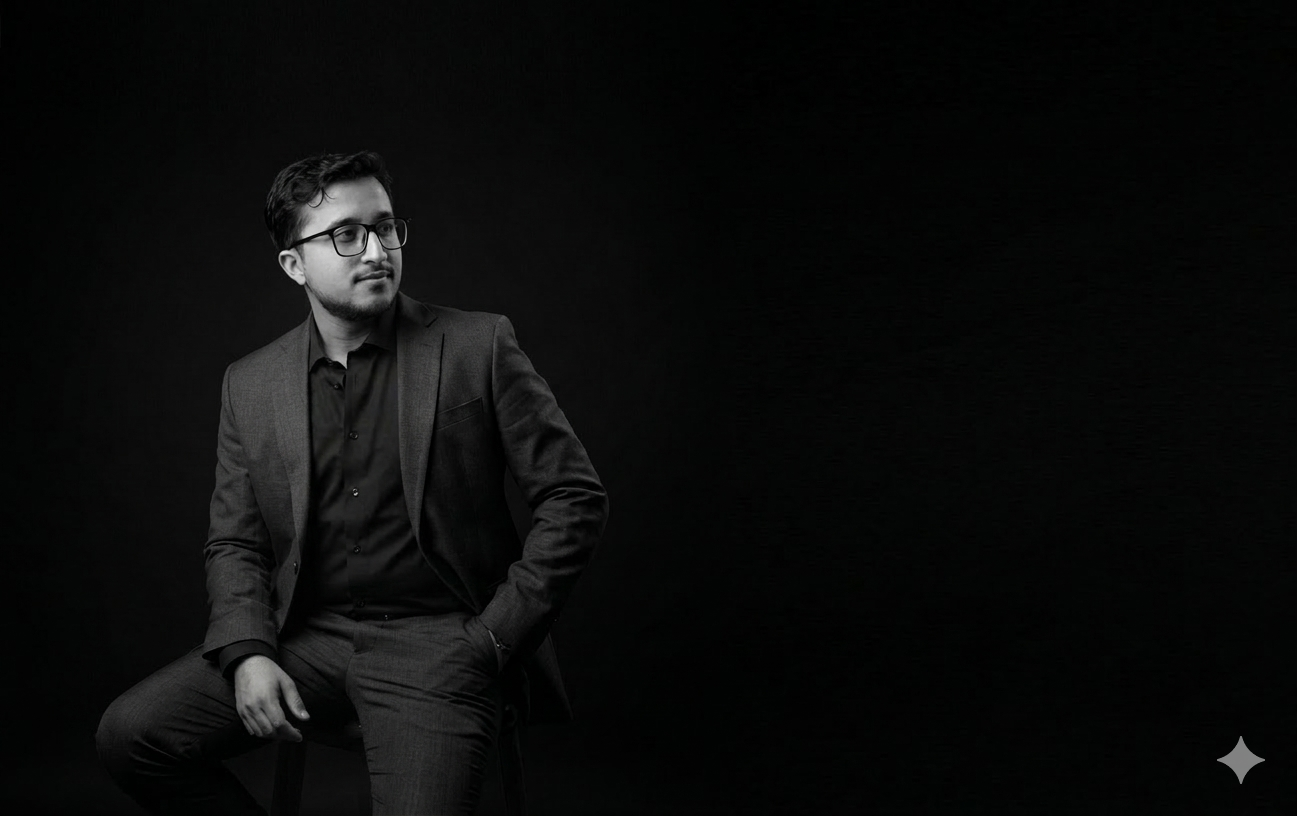
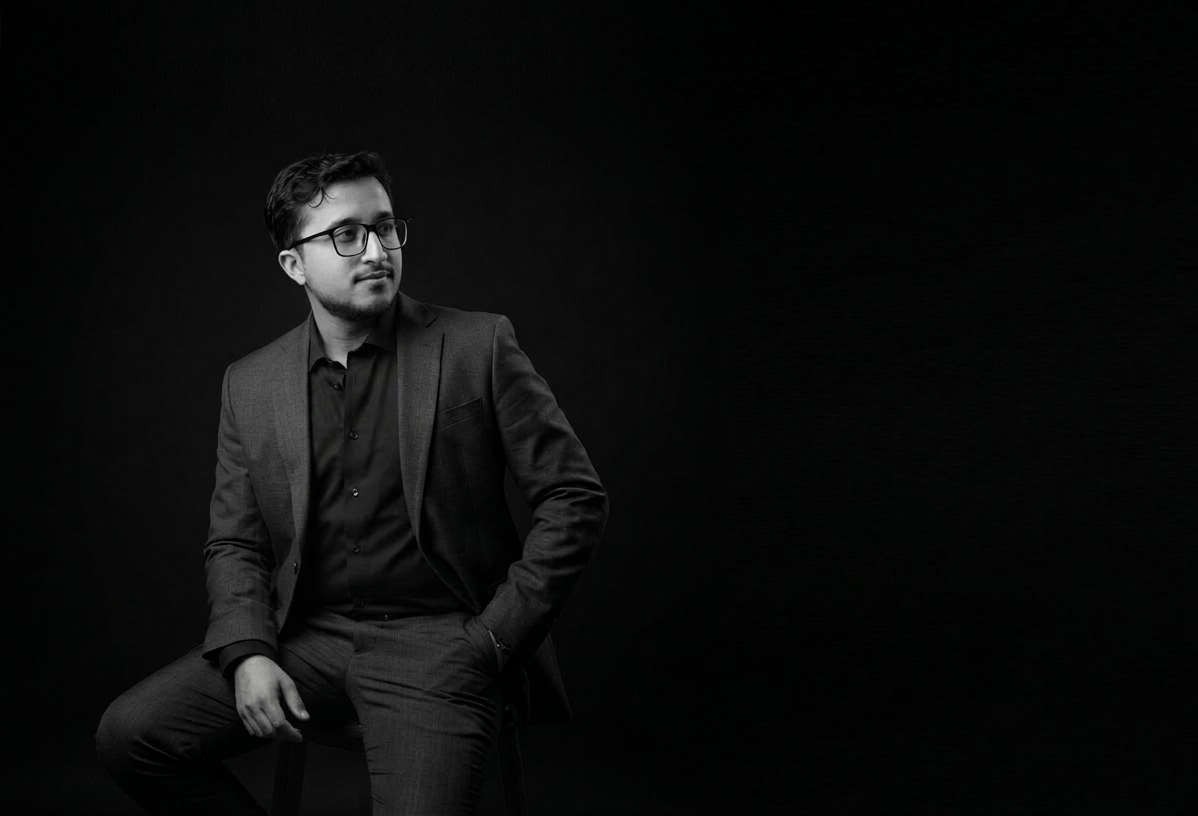
a

diff --git a/about-us.html b/about-us.html
@@ -1032,19 +1032,20 @@ footer{
 
  
   <section class="founder-banner" style="position: relative; width: 100%;">
-    <img src="Gemini_Generated_Image_wwzy17wwzy17wwzy (1).png" alt="Founder" style="width: 100%; height: 700px; object-fit: cover; display: block;">
+    <img src="Gemini_Generated_Image_wwzy17wwzy17wwzy (1).png" alt="Founder" style="width: 100%; height: 800px; object-fit: cover; display: block;">
     <div style="
       position: absolute;
-      bottom: 40px;
+      bottom: 180px;
       right: 40px;
       z-index: 1;
       max-width: 500px;
       color: #fff;
       text-align: left;
     ">
-      <h2 style="font-size: 42px; font-weight: 600; margin-bottom: 12px; text-shadow: 0 2px 8px rgba(0,0,0,0.5);">Our Founder</h2>
-      <h3 style="font-size: 28px; font-weight: 500; margin-bottom: 12px; text-shadow: 0 2px 8px rgba(0,0,0,0.5);">Maaz Khan</h3>
-      <p style="font-size: 16px; line-height: 1.6; text-shadow: 0 2px 8px rgba(0,0,0,0.5);">Nenad Lorencin brings decades of design experience, leading projects with creativity, precision, and a passion for timeless architecture.</p>
+      <h2 style="font-size: 42px; font-weight: 500; margin-bottom: 12px; text-shadow: 0 2px 8px rgba(0,0,0,0.5);">Our Founder</h2>
+      <h3 style="font-size: 28px; font-weight: 400; margin-bottom: 12px; text-shadow: 0 2px 8px rgba(0,0,0,0.5);">Maaz Khan</h3>
+      <p style="font-size: 16px; line-height: 1.6; text-shadow: 0 2px 8px rgba(0,0,0,0.5);">Maaz Khan obtained his Bachelor of Architecture from Taylor’s University, Malaysia in 2021, graduating with Second Class Honors. During his studies, he was placed on the Dean’s List for three consecutive years, and his final year project was awarded the Future Thinkers Award.</p>
+      <p style="font-size: 16px; line-height: 1.6; text-shadow: 0 2px 8px rgba(0,0,0,0.5);"> Upon completion of his degree, he returned to Karachi and joined Identity Design Studio, an architectural firm, where he gained experience working on a range of residential, commercial, interior, and recreational projects. One of the notable projects he contributed to was Royal Fashion at Hyderi, Karachi. After this intensive practice, he established his own studio, Porous Delab, in September 2023. The practice reflects his growing interest in contextual, adaptive design, and his commitment to creating spaces that are both functional and meaningful.</p>
     </div>
   </section>
 
